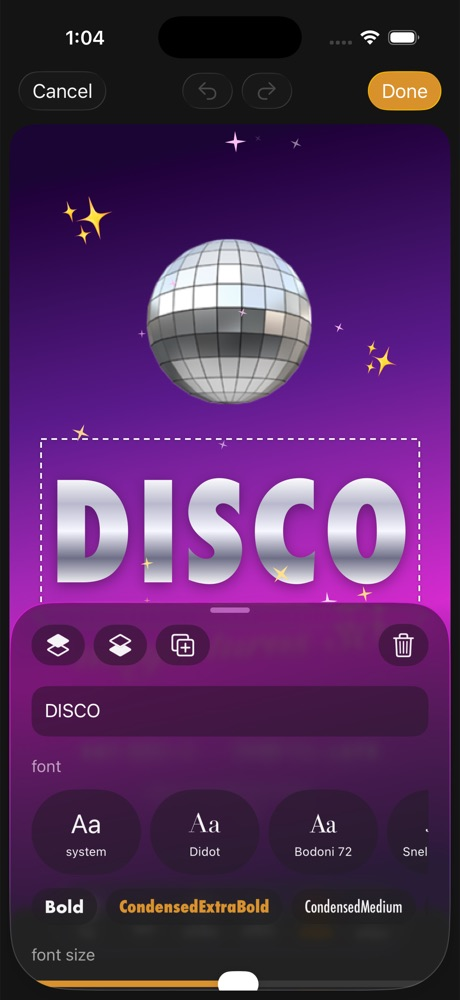
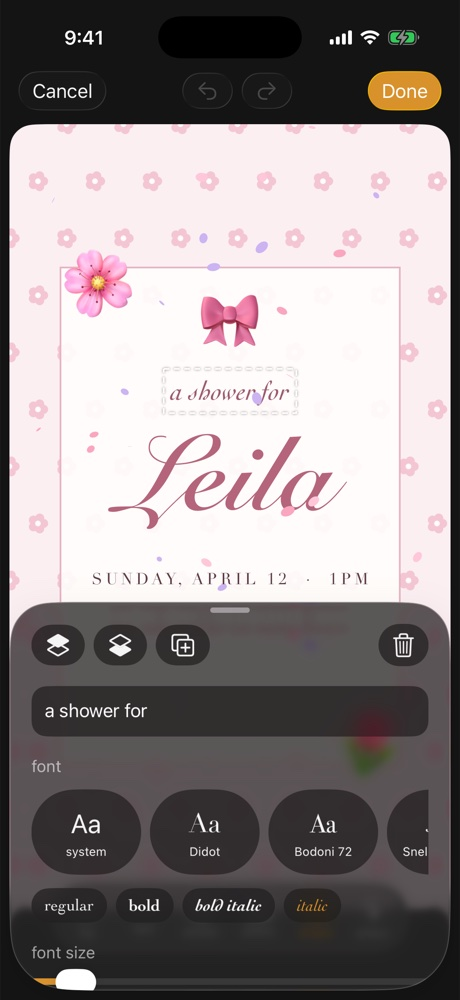
Replace disco README screenshots with bridal and ski trip

diff --git a/Davat/Invite/InviteDetailView.swift b/Davat/Invite/InviteDetailView.swift
@@ -9,6 +9,7 @@ struct InviteDetailView: View {
     @State private var responses: [Response] = []
     @State private var summary: PublicSummary?
     @State private var poster: Image?
+    @State private var scroll = ScrollPosition()
     @State private var editing: EditStep?
     @State private var confirmDelete = false
     @State private var error: String?
@@ -55,13 +56,14 @@ struct InviteDetailView: View {
                     Label(loadError, systemImage: "exclamationmark.triangle").font(.footnote).foregroundStyle(.secondary)
                 }
                 #if DEBUG
-                if session.backend is LocalBackend {
+                if session.backend is LocalBackend, !ProcessInfo.processInfo.arguments.contains("-demoGuests") {
                     Button("simulate guests") { Task { await simulateGuests() } }.buttonStyle(.glass)
                 }
                 #endif
             }
             .padding(20)
         }
+        .scrollPosition($scroll)
         .navigationBarTitleDisplayMode(.inline)
         .tint(.saffron)
         .toolbar {
@@ -107,6 +109,10 @@ struct InviteDetailView: View {
         .task {
             let args = ProcessInfo.processInfo.arguments
             if args.contains("-demoGuests") || args.contains("-demoChat") { await simulateGuests() }
+            if args.contains("-demoScrolled") {   // screenshots
+                try? await Task.sleep(for: .seconds(1))
+                scroll.scrollTo(edge: .bottom)
+            }
             if args.contains("-demoChat") { chatting = true }
             if args.contains("-demoEditor") { editing = .design }
             if args.contains("-demoDetails") { editing = .details }

diff --git a/Davat/Home/HomeView.swift b/Davat/Home/HomeView.swift
@@ -77,11 +77,15 @@ struct HomeView: View {
         #if DEBUG
         let args = ProcessInfo.processInfo.arguments
         if args.contains("-demoSeed"), invites.isEmpty {
-            for (i, t) in Templates.all.prefix(2).enumerated() {
+            // -demoTemplate "<name>" seeds that template first, for screenshots
+            let pick = args.firstIndex(of: "-demoTemplate").flatMap { args.indices.contains($0 + 1) ? args[$0 + 1] : nil }
+            let named = Templates.all.filter { $0.name == pick }
+            let seeds = named.isEmpty ? Array(Templates.all.prefix(2)) : named
+            for t in seeds {
                 try? await session.backend.saveInvite(Invite(
-                    id: UUID(), hostID: session.userID ?? UUID(), title: t.name, startsAt: .now.addingTimeInterval(86400 * 9),
-                    location: "the rooftop on 5th", details: "bring a friend and your best moves",
-                    design: t.design, fundraiser: i == 0 ? Fundraiser(priceCents: 2000, hostPays: true) : nil, updatedAt: .now))
+                    id: UUID(), hostID: session.userID ?? UUID(), title: t.name, startsAt: Invite.defaultStart(after: .now),
+                    location: "our place", details: "bring a friend",
+                    design: t.design, fundraiser: t.name == seeds.first?.name ? Fundraiser(priceCents: 2000, hostPays: true) : nil, updatedAt: .now))
             }
             invites = (try? await session.backend.myInvites()) ?? []
         }
